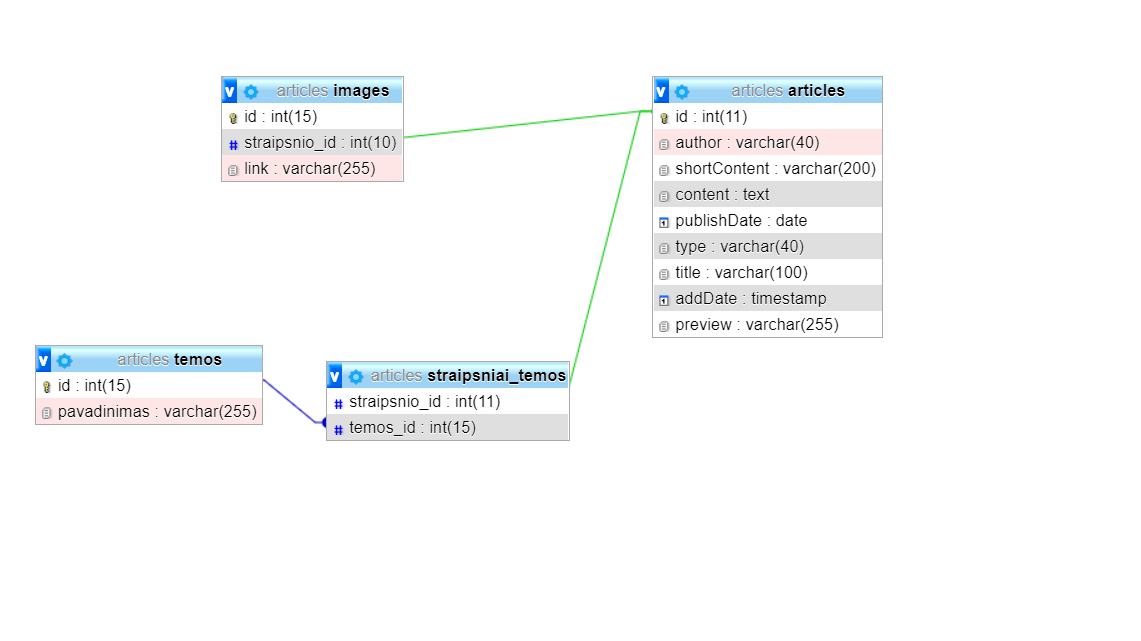
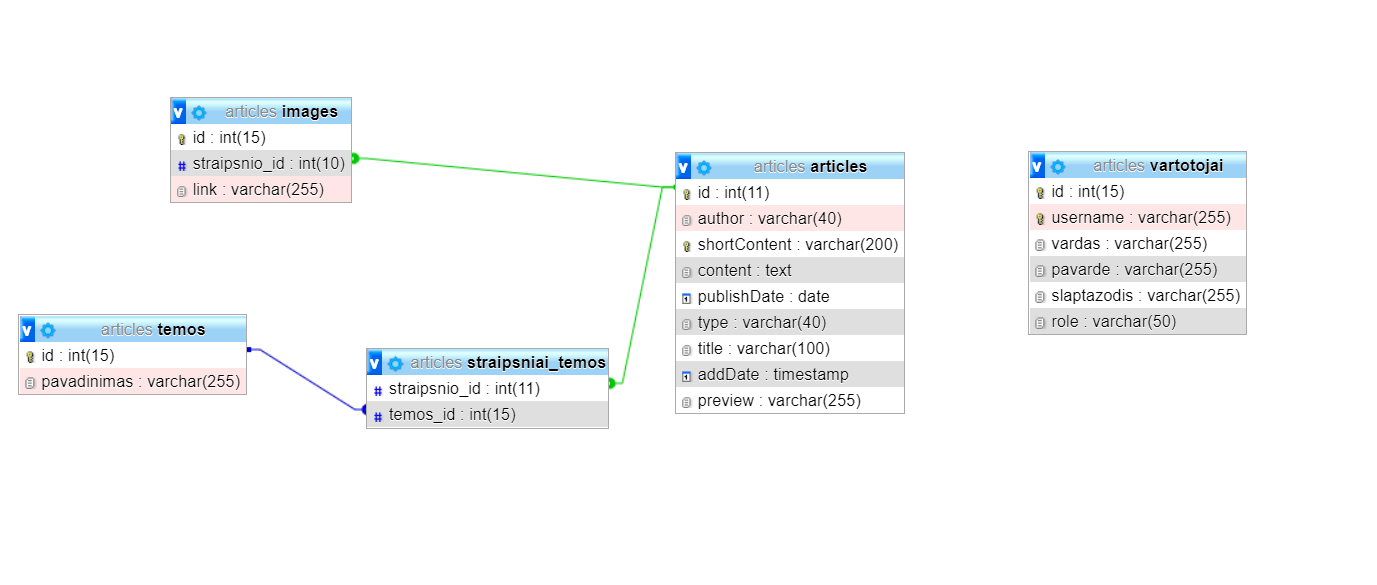
Administratorius gali ištrinti straipsnį

Changed region(s): [[0.0, 0.0923, 0.9202, 0.7385], [0.1227, 0.0923, 0.4908, 0.3692]]

diff --git a/OOP_Polimorfizmas/models/classes.php b/OOP_Polimorfizmas/models/classes.php
@@ -78,7 +78,7 @@ class NewsArticle extends Article
         } else if(isset($user['role']) && $user['role'] == "standartinis_vartotojas") {
             echo "<a href='#'>Komentuoti</a>";
         } else if(isset($user['role']) && $user['role'] == "administratorius") {
-            echo "<a href='#'>Ištrinti straipsnį</a>";
+            echo "<a href='../controllers/delete_article.php?id=$this->id'>Ištrinti straipsnį</a>";
         }
         echo "<br><br>";
         echo '</div>';
@@ -102,7 +102,7 @@ class ShortArticle extends Article
         } else if(isset($user['role']) && $user['role'] == "standartinis_vartotojas") {
             echo "<a href='#'>Komentuoti</a>";
         } else if(isset($user['role']) && $user['role'] == "administratorius") {
-            echo "<a href='#'>Ištrinti straipsnį</a>";
+            echo "<a href='../controllers/delete_article.php?id=$this->id'>Ištrinti straipsnį</a>";
         }
         echo "<br><br>";
         echo '</div>';
@@ -127,7 +127,7 @@ class PhotoArticle extends Article
         } else if(isset($user['role']) && $user['role'] == "standartinis_vartotojas") {
             echo "<a href='#'>Komentuoti</a>";
         } else if(isset($user['role']) && $user['role'] == "administratorius") {
-            echo "<a href='#'>Ištrinti straipsnį</a>";
+            echo "<a href='../controllers/delete_article.php?id=$this->id'>Ištrinti straipsnį</a>";
         }
         echo "<br><br>";
         echo '</div>';

diff --git a/OOP_Polimorfizmas/controllers/delete_article.php b/OOP_Polimorfizmas/controllers/delete_article.php
@@ -1,0 +1,10 @@
+<?php
+if ($_COOKIE['role'] == 'administratorius') {
+    require 'db_connection.php';
+
+    $sql = 'DELETE FROM articles WHERE id='.$_GET['id'].';';
+
+    mysqli_query($link, $sql);
+
+    header('Location: ../views/view.php');
+}
